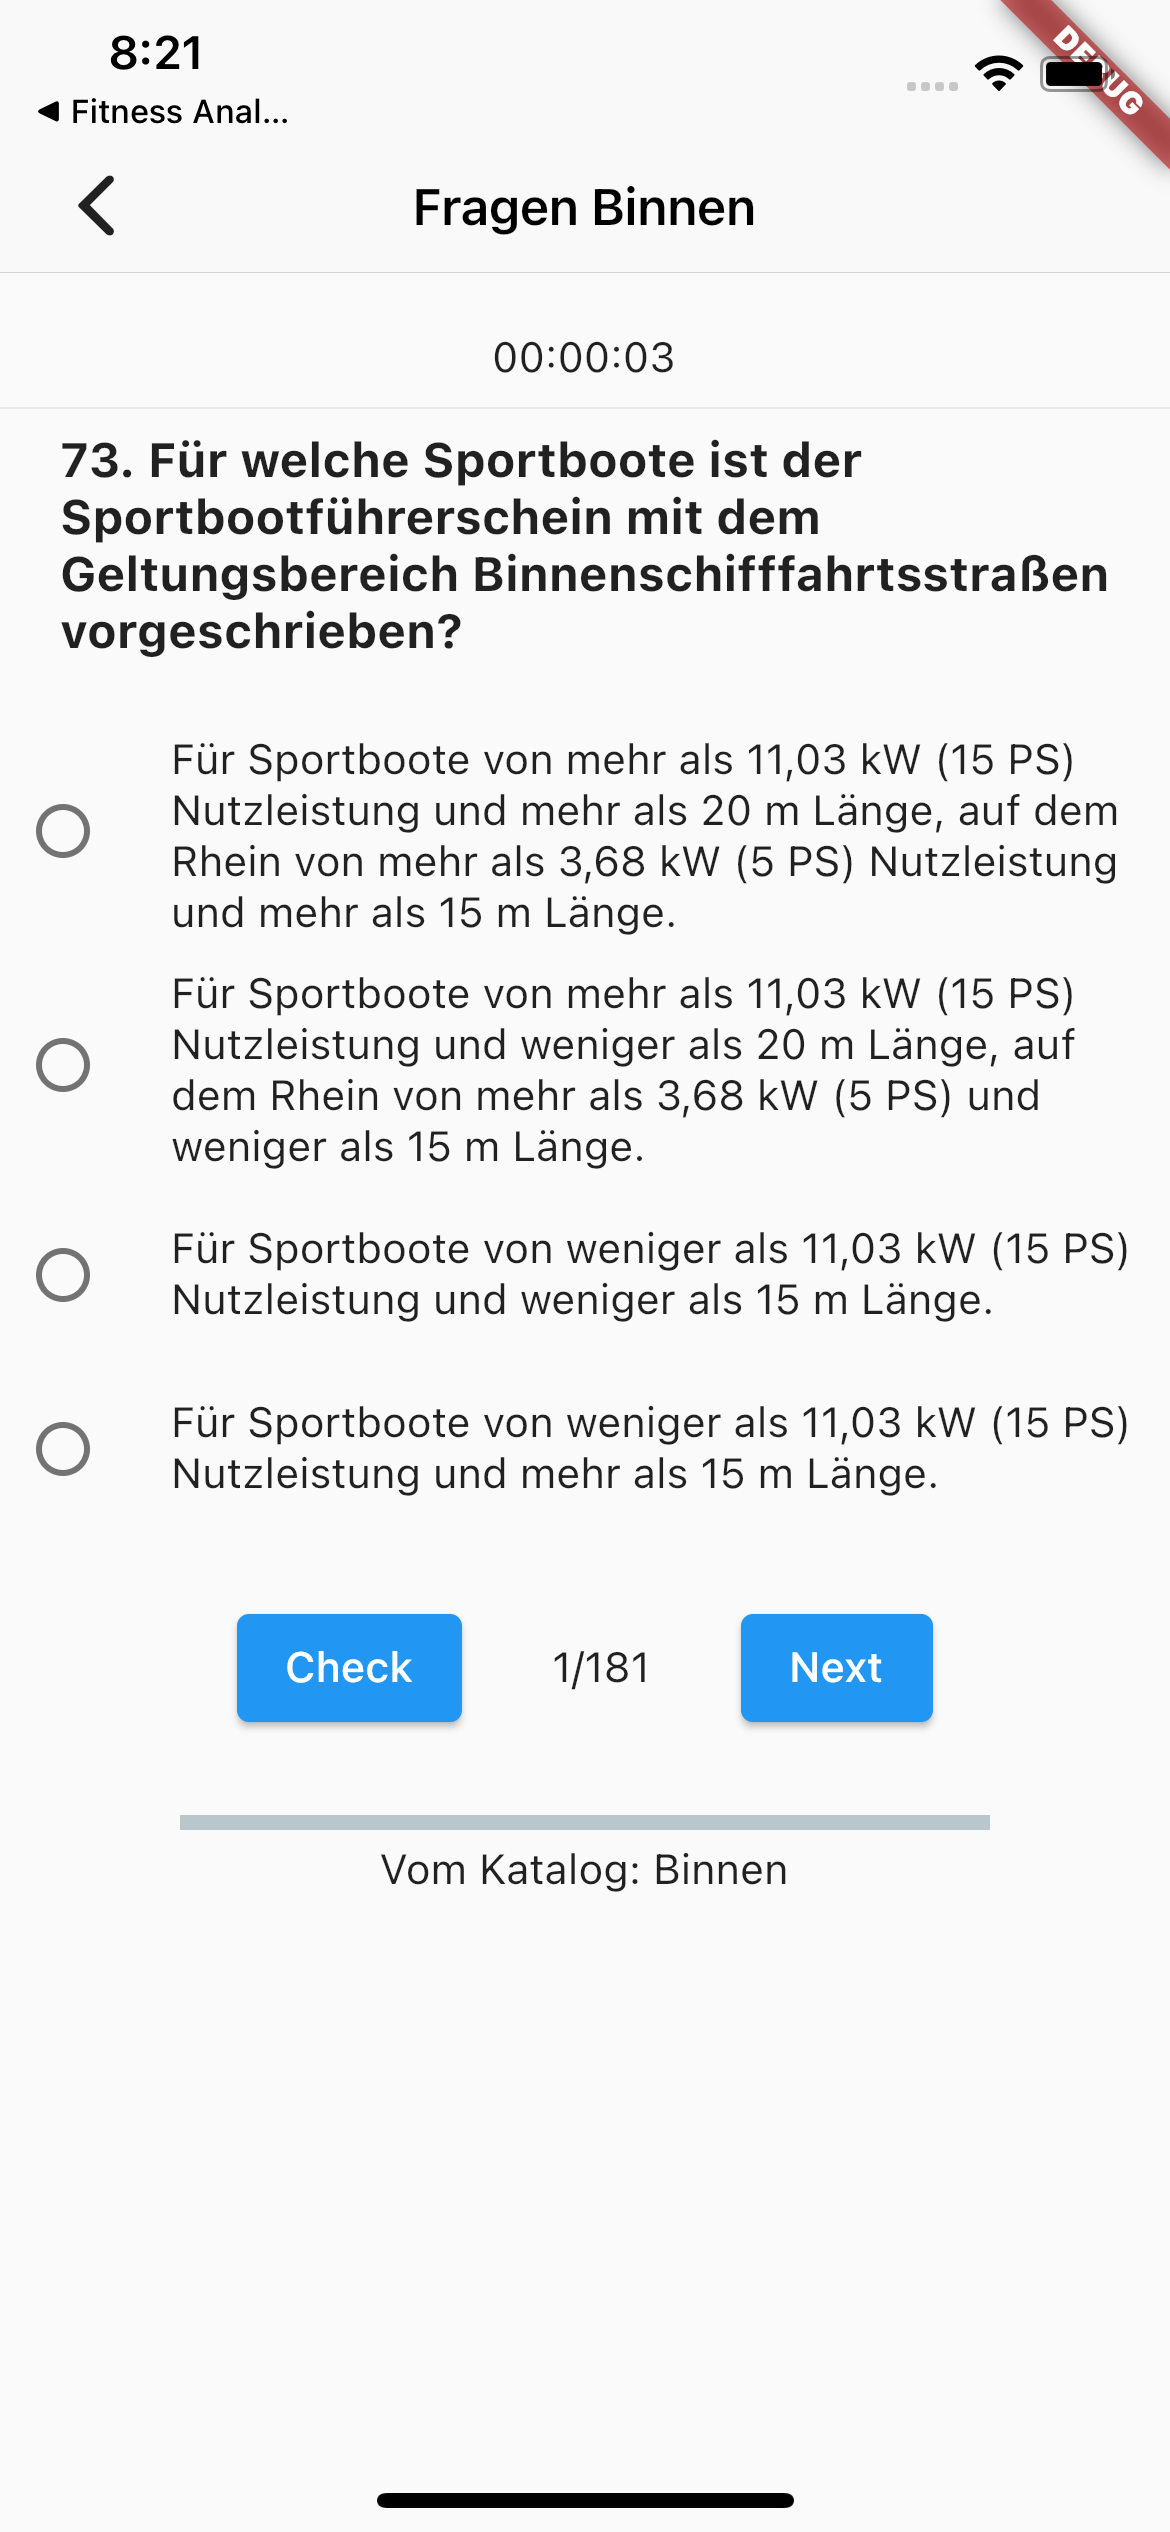
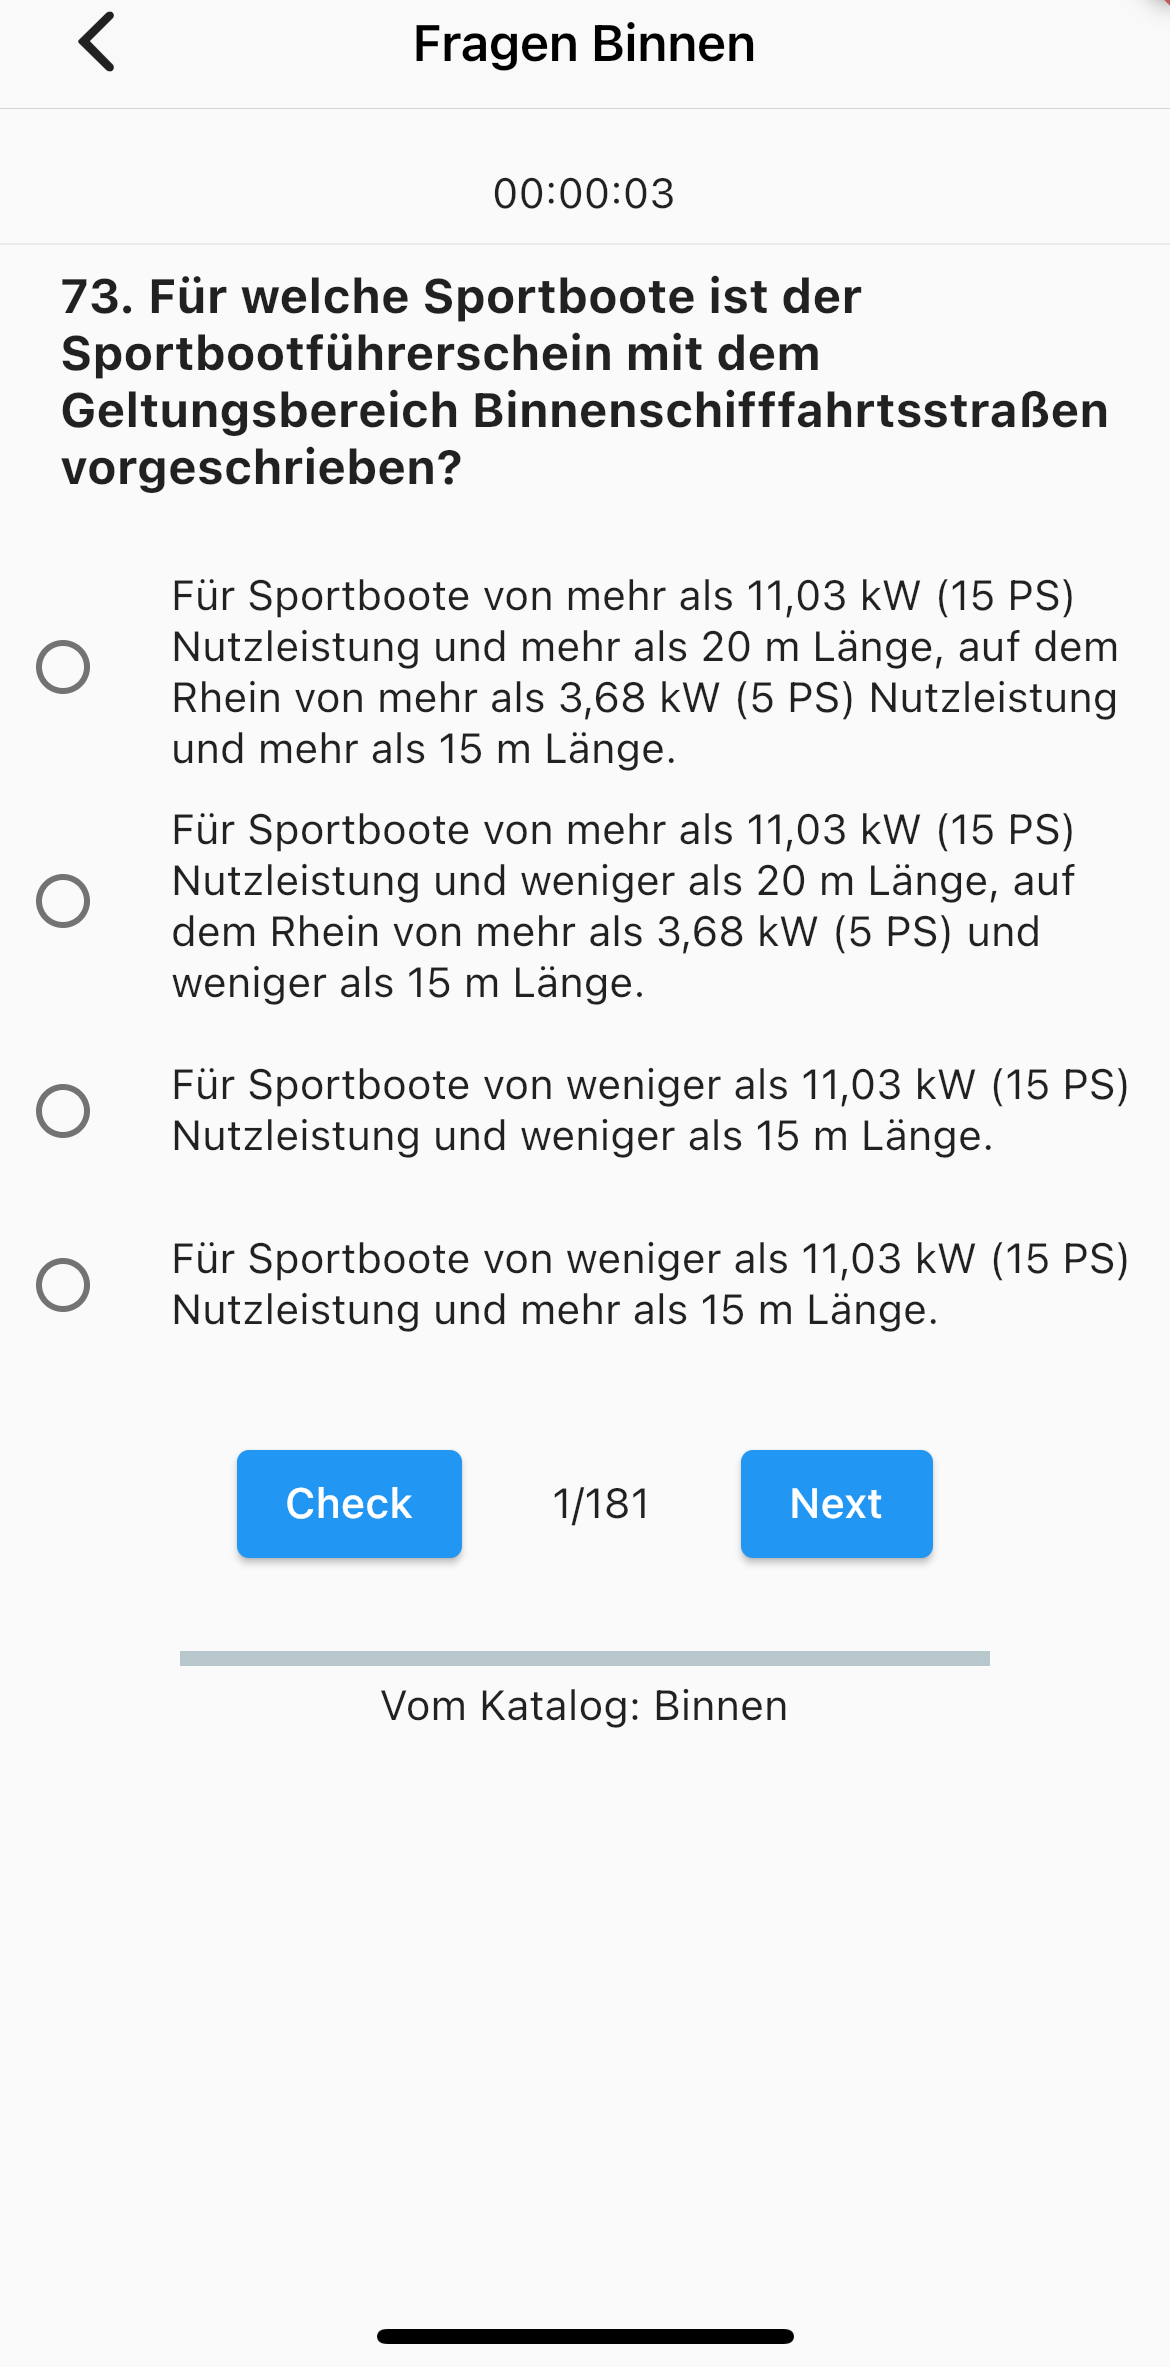
change description

diff --git a/README.md b/README.md
@@ -1,4 +1,4 @@
-# Fragenkatalog_Sportboot
+# Fragenkatalog Sportbootführerschein
 Fragenkatalog für den Sportbootführerschein Binnen und See
 
 
@@ -11,3 +11,9 @@ Darstellen der Fragen inkl. Antwortmöglichkeiten und speichern des Lernfortschr
 
 
 
+
+<p float="left">
+<img src="https://github.com/koljabohne/Fragenkatalog_Sportboot/blob/main/images/1.png" height="450">
+<img src="https://github.com/koljabohne/Fragenkatalog_Sportboot/blob/main/images/2.png" height="450">
+<img src="https://github.com/koljabohne/Fragenkatalog_Sportboot/blob/main/images/3.png" height="450">
+</p>
